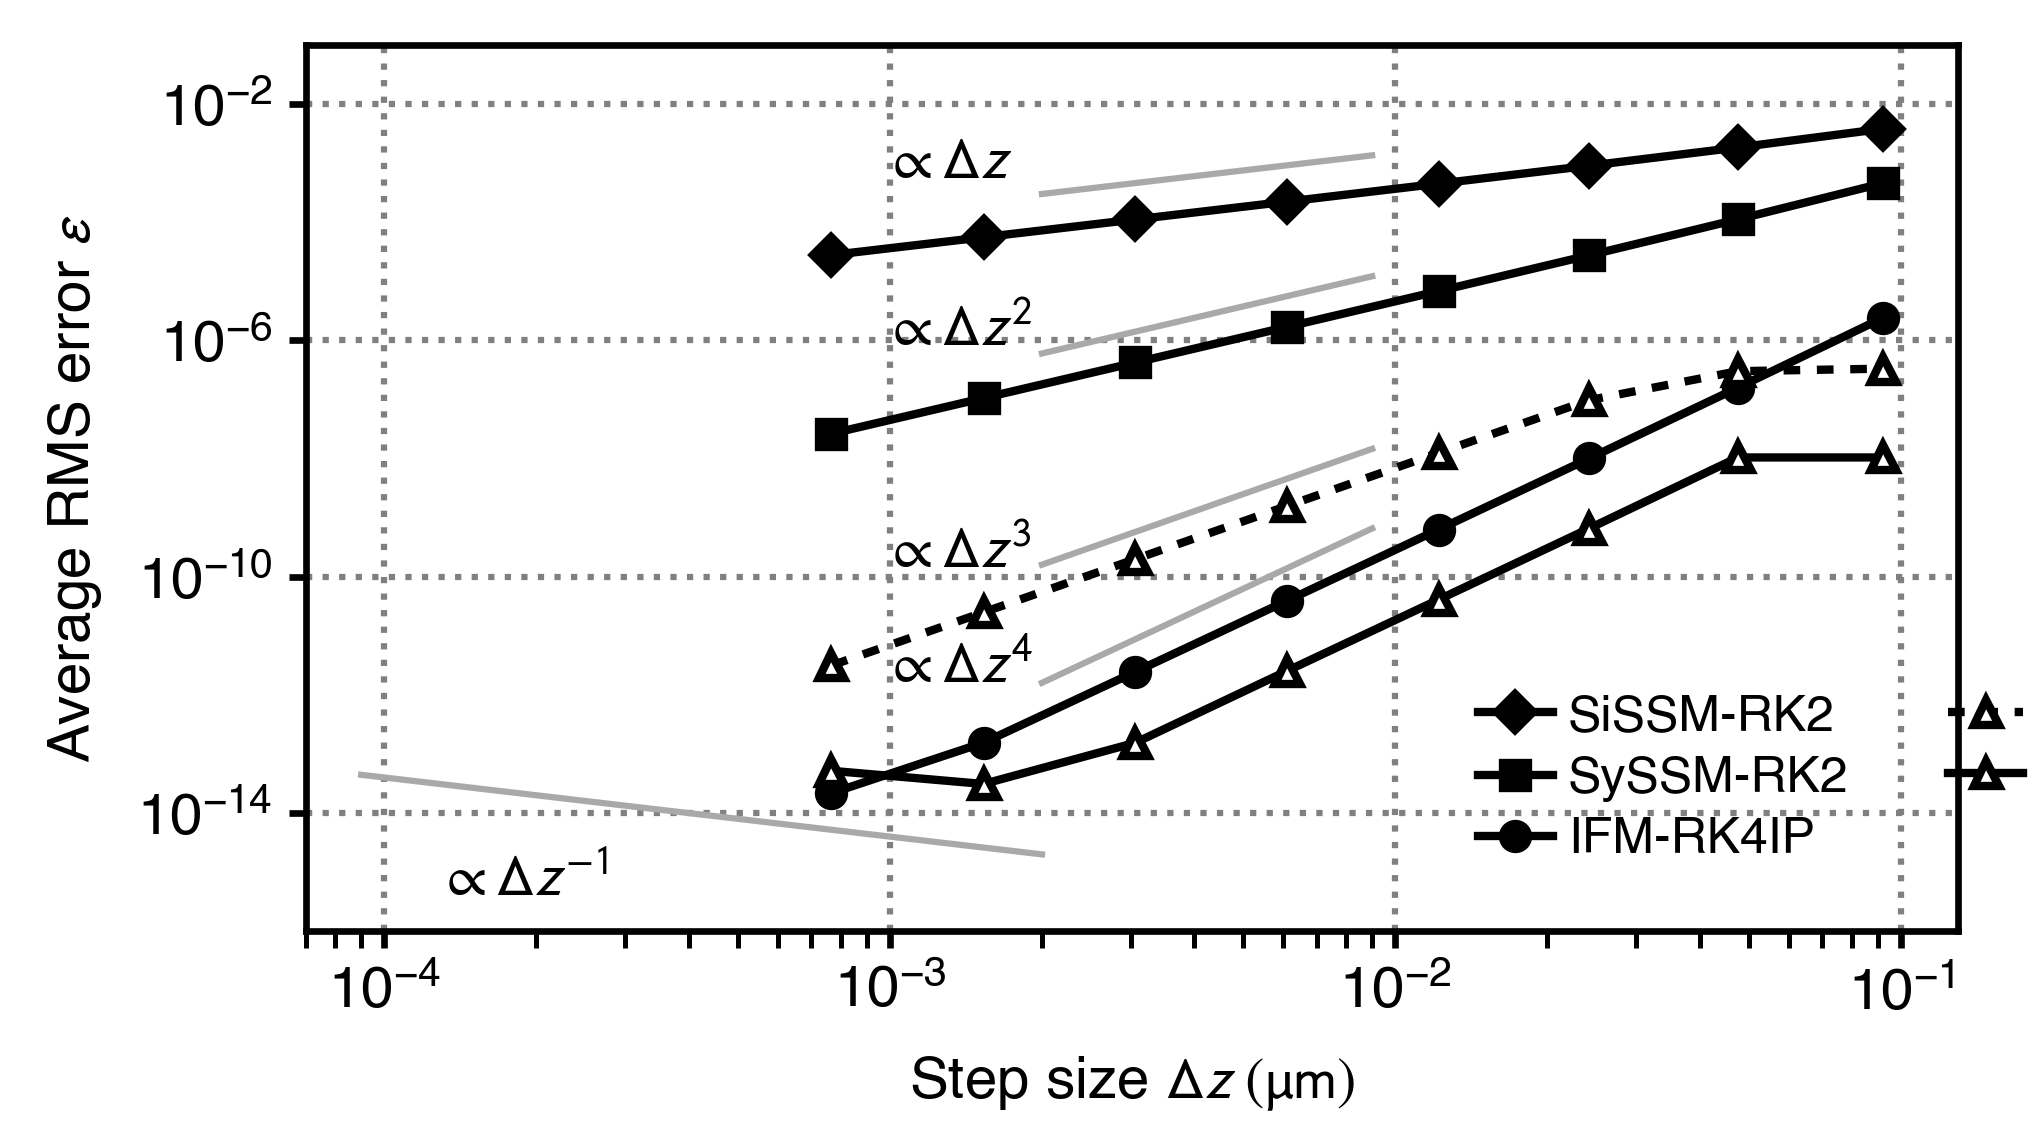
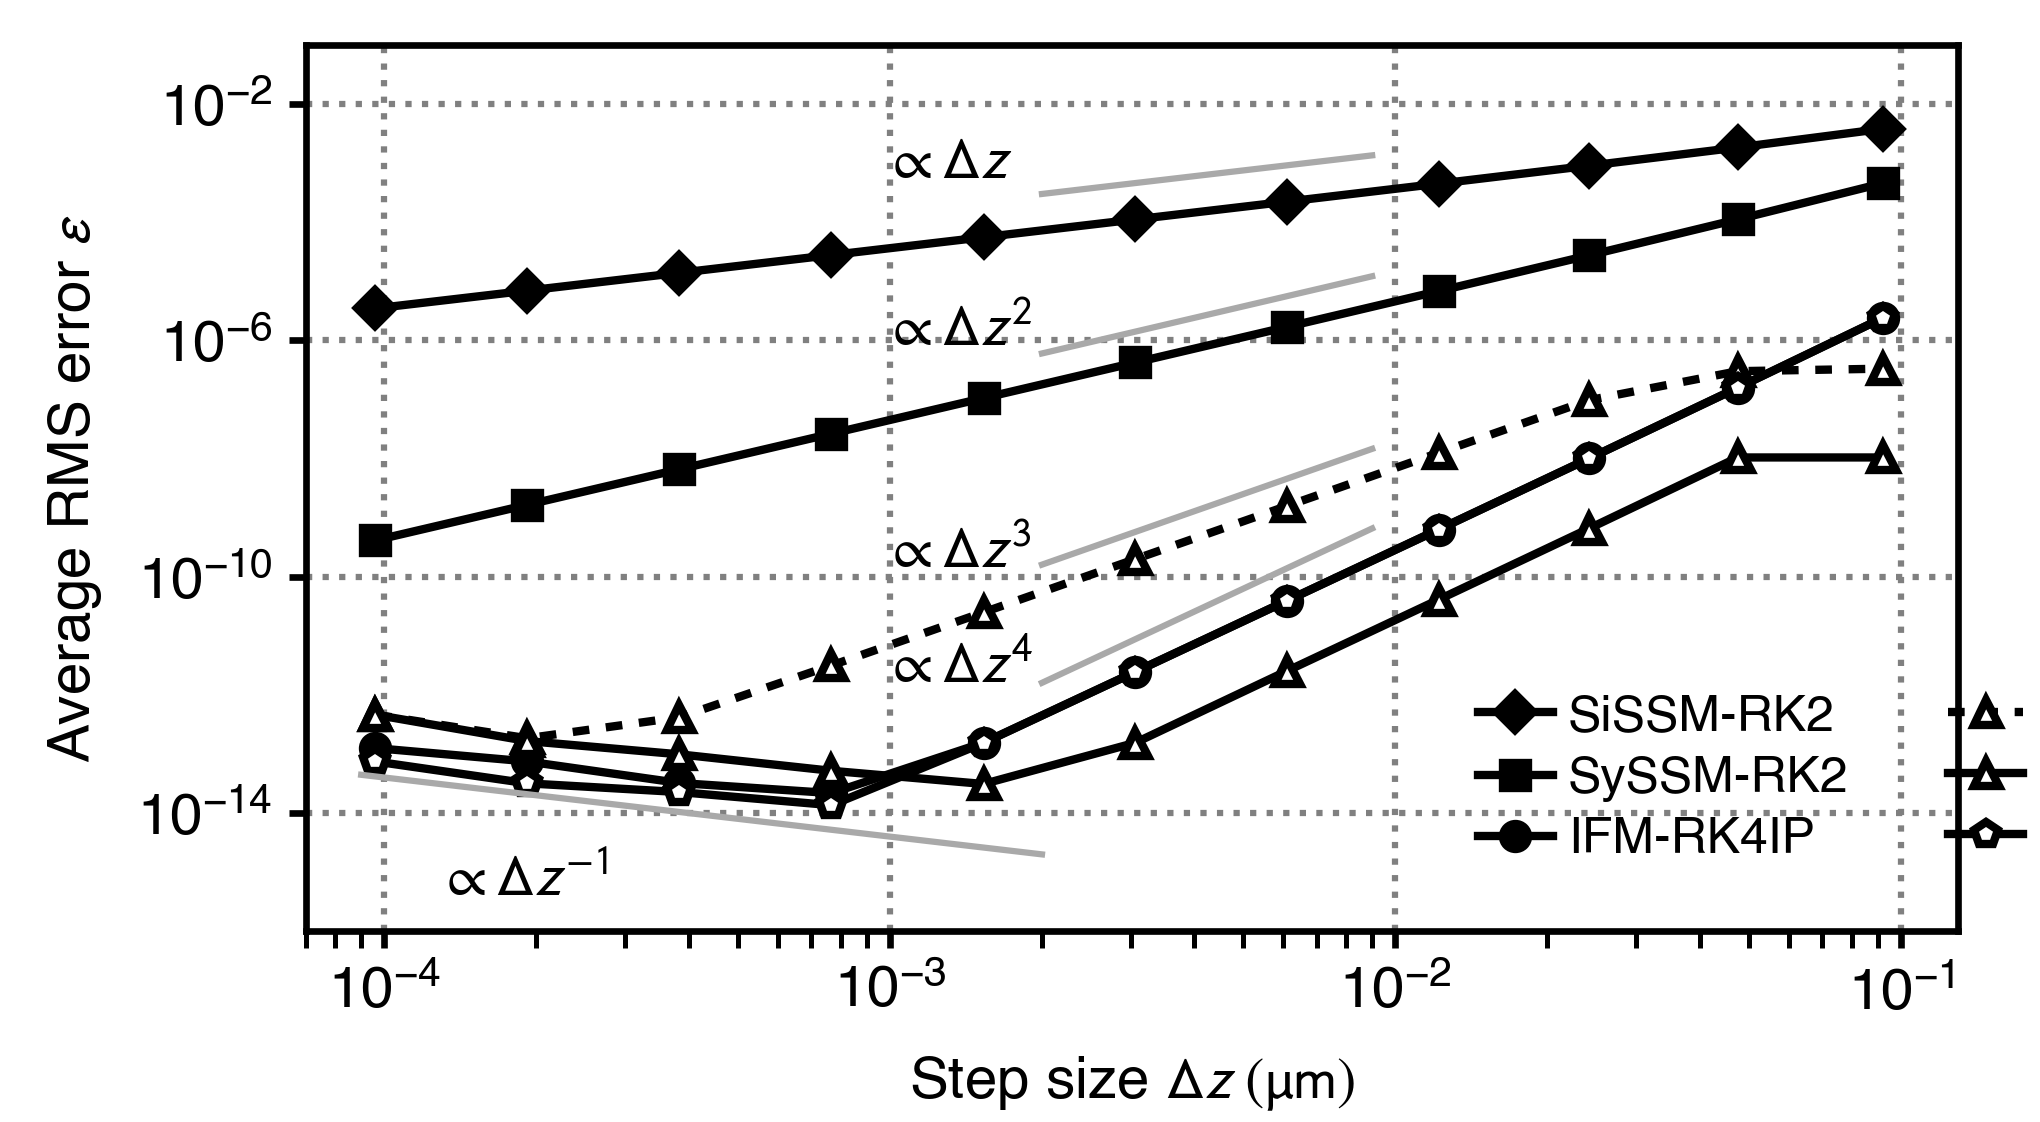
updated usage example 01

diff --git a/examples_article/usage_example_04/pp_figure/main_figure_use_case_04.py b/examples_article/usage_example_04/pp_figure/main_figure_use_case_04.py
@@ -1,0 +1,245 @@
+"""
+Author: O. Melchert
+Date: 2020-09-09
+"""
+import sys
+import os
+import numpy as np
+import numpy.fft as nfft
+import matplotlib as mpl
+import matplotlib.pyplot as plt
+from matplotlib.gridspec import GridSpec, GridSpecFromSubplotSpec
+import h5py
+
+__author__ = 'Oliver Melchert'
+__date__ = '2020-09-09'
+
+
+# -- CONVENIENT ABBREVIATIONS
+FT = nfft.ifft
+IFT = nfft.fft
+
+
+class Figure():
+
+    def __init__(self, aspect_ratio = 1.0, fig_format = 'png', fig_basename = 'fig_test'):
+        self.fig_format = fig_format
+        self.fig_basename = fig_basename
+        self.fig = None
+        self.set_style(aspect_ratio)
+
+    def set_style(self, aspect_ratio = 1.0):
+
+        fig_width = 3.4 # (inch)
+        fig_height = aspect_ratio*fig_width
+
+        params = {
+            'figure.figsize': (fig_width,fig_height),
+            'legend.fontsize': 6,
+            'legend.frameon': False,
+            'axes.labelsize': 7,
+            'axes.linewidth': 1.,
+            'axes.linewidth': 0.8,
+            'xtick.labelsize' :7,
+            'ytick.labelsize': 7,
+            'mathtext.fontset': 'stixsans',
+            'mathtext.rm': 'serif',
+            'mathtext.bf': 'serif:bold',
+            'mathtext.it': 'serif:italic',
+            'mathtext.sf': 'sans\\-serif',
+            'font.size':  7,
+            'font.family': 'serif',
+            'font.serif': "Helvetica",
+        }
+        mpl.rcParams.update(params)
+
+
+    def save(self):
+        fig_format, fig_name = self.fig_format, self.fig_basename
+        if fig_format == 'png':
+            plt.savefig(fig_name+'.png', format='png', dpi=600)
+        elif fig_format == 'pdf':
+            plt.savefig(fig_name+'.pdf', format='pdf', dpi=600)
+        elif fig_format == 'svg':
+            plt.savefig(fig_name+'.svg', format='svg', dpi=600)
+        else:
+            plt.show()
+
+
+    def set_subfig_label(self,ax, label, loc=1):
+            pos = ax.get_position()
+
+            if loc==1:
+                self.fig.text(pos.x0, pos.y1, label ,color='white',
+                    backgroundcolor='k', bbox=dict(facecolor='k', edgecolor='none',
+                    boxstyle='square,pad=0.1'), verticalalignment='top' )
+
+            elif loc==2:
+                self.fig.text(pos.x0, pos.y0, label ,color='white',
+                    backgroundcolor='k', bbox=dict(facecolor='k', edgecolor='none',
+                    boxstyle='square,pad=0.1'), verticalalignment='bottom' )
+
+            else:
+                print("check label position")
+                exit()
+
+
+    def set_layout(self):
+
+        fig = plt.figure()
+        self.fig = fig
+
+        plt.subplots_adjust(left = 0.12,    # pos. of subplots left border
+                            bottom = 0.15,   # pos. of subplots bottom border 
+                            right = 0.88,   # pos. of subplots right border
+                            top = 0.9,     # pos. of subplots top border
+                            wspace = .6,    # horizontal space between supblots
+                            hspace = 0.6    # vertical space between subplots
+                            )
+
+        gs00 = GridSpec(nrows = 1, ncols = 1)
+
+        gsA = GridSpecFromSubplotSpec(2, 3, subplot_spec=gs00[0,0], wspace=0.1, hspace=0.1)
+        axA1 = fig.add_subplot(gsA[:, 0])
+        axA2 = fig.add_subplot(gsA[0, 1:])
+        axA3 = fig.add_subplot(gsA[1, 1:])
+        self.subfig_1 = [axA1]
+        self.subfig_2 = [axA2, axA3]
+
+
+    def set_subfig_1(self):
+        axA1 = self.subfig_1[0]
+        fig = self.fig
+
+        # CONVENIENT FUNCTIONS ##################################################################
+
+        def _set_colorbar(fig, img, ax, label='text', dw=0.):
+            # -- extract position information for colorbar placement
+            refPos = ax.get_position()
+            x0, y0, w, h = refPos.x0, refPos.y0, refPos.width, refPos.height
+            # -- set new axes as reference for colorbar
+            colorbar_axis = fig.add_axes([x0 + dw, y0 + 1.02*h, w-dw, 0.03*h])
+            # -- set custom colorbar
+            colorbar = fig.colorbar(img,        # image described by colorbar
+                    cax = colorbar_axis,        # reference axex
+                    orientation = 'horizontal', # colorbar orientation
+                    extend = 'both'             # ends with out-of range values
+                    )
+            colorbar.ax.tick_params(
+                    color = 'k',                # tick color 
+                    labelcolor = 'k',           # label color
+                    bottom = False,             # no ticks at bottom
+                    labelbottom = False,        # no labels at bottom
+                    labeltop = True,            # labels on top
+                    top = True,                 # ticks on top
+                    direction = 'out',          # place ticks outside
+                    length = 2,                 # tick length in pts. 
+                    labelsize = 5.,             # tick font in pts.
+                    pad = 1.                    # tick-to-label distance in pts.
+                    )
+            fig.text(x0, y0+h+0.02*h, label, horizontalalignment='left', verticalalignment='bottom', size=6)
+            return colorbar
+
+        _norm = lambda x: x/x[0].max()
+        _truncate = lambda x: np.where(x>1.e-20,x,1.e-20)
+        _dB = lambda x: np.where(x>1e-20,10.*np.log10(x),10*np.log10(1e-20))
+
+        # -- CREATE CUSTOM COLORMAP
+        my_cmap = mpl.cm.get_cmap('jet')
+
+        # -- data -------------------------------------------------------------------------------
+        z, t, w, utz = self.z, self.t, self.w, self.utz
+
+        # -- time domain
+        Itz = _norm(np.abs(utz)**2)
+        img = axA1.pcolorfast(t, z, _dB(Itz[:-1,:-1]),
+                              vmin=-40., vmax=1,
+                              cmap = my_cmap
+                              )
+        cb = _set_colorbar(fig, img, axA1, label='$|A|^2~\mathrm{(dB)}$', dw=0.1)
+        cb.set_ticks((-40,-20,0))
+
+        axA1.tick_params(axis='x', length=2., pad=2, top=False)
+        x_lim = (-30.,30.)
+        x_ticks = (-20.,0,20.)
+        axA1.set_xlim(x_lim)
+        axA1.set_xticks(x_ticks)
+        axA1.set_xlabel(r"Time $t~\mathrm{(fs)}$")
+
+        axA1.tick_params(axis='y', length=2., pad=2, top=False)
+        z_lim = (0., z.max())
+        z_ticks = (0,0.5,1.,1.5)
+        axA1.set_ylim(z_lim)
+        axA1.set_yticks(z_ticks)
+        axA1.set_ylabel(r"Propagation distance $z~\mathrm{(\mu m)}$")
+
+        self.set_subfig_label(axA1,'(a)')
+
+
+    def set_subfig_2(self):
+        axA2, axA3 = self.subfig_2
+
+        z, dz_a, del_rle = self.z, self.dz_a, self.del_rle
+
+        iters = np.arange(dz_a.size)
+        axA2.plot(iters, dz_a*1e3, color='k', lw=0.75)
+
+        axA2.tick_params(axis='x', length=2., pad=2, top=False, labelbottom=False)
+        x_lim = (0,512)
+        x_ticks = (0,128,256,384,512)
+        axA2.set_xlim(x_lim)
+        axA2.set_xticks(x_ticks)
+        axA2.set_ylabel(r"$h~{(\mathrm{ns})}$")
+        axA2.yaxis.set_label_position('right')
+
+        axA2.tick_params(axis='y', length=2., pad=2, top=False, labelleft=False, right=True, labelright=True, left=False)
+        y_lim = (0,8.5)
+        y_ticks = (0,2,4,6,8)
+        axA2.set_ylim(y_lim)
+        axA2.set_yticks(y_ticks)
+
+        axA3.plot(iters, del_rle*1e7, color='k', lw=0.75)
+        axA3.axhspan(0.5,1,color='lightgray')
+
+        axA3.tick_params(axis='x', length=2., pad=2, top=False)
+        y_lim = (0,1.7)
+        y_ticks = (0,0.5,1,1.5)
+        axA3.set_xlim(x_lim)
+        axA3.set_xticks(x_ticks)
+
+        axA3.tick_params(axis='y', length=2., pad=2, top=False, labelleft=False, right=True, labelright=True, left=False)
+        axA3.set_ylim(y_lim)
+        axA3.set_yticks(y_ticks)
+        axA3.set_ylabel(r"$\delta_{\rm{RLE}}~(\times 10^{-7})$")
+        axA3.yaxis.set_label_position('right')
+        axA3.set_xlabel(r"Slice number $n$")
+
+        self.set_subfig_label(axA2,'(b)')
+        self.set_subfig_label(axA3,'(c)')
+
+
+
+    def fetch_data(self, file_path):
+
+        with h5py.File(file_path, "r") as f:
+            self.utz = np.array(f['u'])
+            self.t = np.array(f['t'])
+            self.w = np.array(f['w'])
+            self.z = np.array(f['z'])
+            self.dz_int = np.array(f['dz_integration'])
+            self.dz_a = np.array(f['dz_a'])
+            self.del_rle = np.array(f['del_rle'])
+
+
+def main():
+
+    myFig = Figure(aspect_ratio=0.66, fig_basename='fig_LEM_SolSolCollision', fig_format='png')
+    myFig.set_layout()
+    myFig.fetch_data('../res_LEM_SolSolCollision.h5')
+    myFig.set_subfig_1()
+    myFig.set_subfig_2()
+    myFig.save()
+
+
+if __name__ == '__main__':
+    main()

diff --git a/examples_article/usage_example_04/main_usage_example_04.py b/examples_article/usage_example_04/main_usage_example_04.py
@@ -1,0 +1,81 @@
+import sys
+import numpy as np
+from fmas.models import ModelBaseClass
+from fmas.config import FTFREQ, FT, IFT, C0
+from fmas.grid import Grid
+from fmas.solver import LEM
+from fmas.data_io import save_h5
+
+class NSE(ModelBaseClass):
+
+    def __init__(self, w, beta, gamma):
+        super().__init__(w, beta_w=beta)
+        self.gamma = gamma
+
+    @property
+    def Lw(self):
+        return 1j*self.beta_w
+
+    def N(self, uw):
+        ut = IFT(uw)
+        return 1j*self.gamma*FT(np.abs(ut)**2*ut)
+
+
+def main():
+
+    # -- SET MODEL PARAMETERS
+    t_max = -50.
+    Nt = 2**12
+    # ... PROPAGATION CONSTANT (POLYNOMIAL MODEL)
+    beta = np.poly1d([-0.5, 0.0, 0.0])
+    beta1 = np.polyder(beta, m=1)
+    beta2 = np.polyder(beta, m=2)
+    # ... NONLINEAR PARAMETER 
+    gamma = 1.
+    # ... SOLITON PARAMTERS
+    t0 = 1.                             # duration
+    t_off = 20.                         # temporal offset
+    w0 = 25.                            # detuning
+    P0 = np.abs(beta2(0))/t0/t0/gamma   # peak-intensity
+    LD = t0*t0/np.abs(beta2(0))         # dispersion length
+    # ... EXACT SOLUTION
+    u_exact = lambda z, t: np.sqrt(P0)*np.exp(0.5j*gamma*P0*z)/np.cosh(t/t0)
+
+
+    # -- INITIALIZATION STAGE
+    # ... COMPUTATIONAL DOMAIN
+    grid = Grid(t_max=t_max, t_num=Nt)
+    t, w = grid.t, grid.w
+    # ... NONLINEAR SCHROEDINGER EQUATION 
+    model = NSE(w, beta(w), gamma)
+    # ... PROPAGATION ALGORITHM
+    solver = LEM(model.Lw, model.N, del_G = 1e-7)
+    # ... INITIAL CONDITION
+    u0_t  = u_exact(0.0, t+t_off)*np.exp(1j*w0*t)
+    u0_t += u_exact(0.0, t-t_off)*np.exp(-1j*w0*t)
+    solver.set_initial_condition(w, FT(u0_t))
+
+    # -- RUN SOLVER 
+    solver.propagate(
+        z_range = 0.5*np.pi*LD,     # propagation range
+        n_steps = 2**9,
+        n_skip = 2
+    )
+
+    # -- STORE RESULTS
+    # ... PREPARE DATA DICTIONARY FOR OUTPUT FILE
+    results = {
+        't': t,
+        'z': solver.z,
+        'w': solver.w,
+        'u': solver.utz,
+        'dz_integration': solver.dz_,
+        'dz_a': np.asarray(solver._dz_a),
+        'del_rle' : np.asarray(solver._del_rle)
+    }
+    # ... STORE DATA
+    save_h5( './res_LEM_SolSolCollision.h5', **results)
+
+
+if __name__=='__main__':
+    main()

diff --git a/examples_article/usage_example_01/pp_fig_01_v2/main_figure_usage_example_01.py b/examples_article/usage_example_01/pp_fig_01_v2/main_figure_usage_example_01.py
@@ -173,7 +173,15 @@ def figure(fig_basename):
     err = dat[:,1]
     l7 = axA1.plot(dz, err, color=col1, marker='^', markersize=3., markerfacecolor=col12, linewidth=1., mew= 1., label=r'LEM-RK4')
 
-    set_legend(axA1, l4+l2+l3+l6+l7, loc=(0.7,0.06), ncol=2)
+
+    f_name = '../res_CQE.dat'
+    dat = np.loadtxt(f_name)
+    dz = dat[:,0]
+    err = dat[:,1]
+    col1 = 'gray'
+    l8 = axA1.plot(dz, err, color=col1, marker='p', markersize=2., markerfacecolor=col12, linewidth=0.75, mew= 0.75, label=r'CQE')
+
+    set_legend(axA1, l4+l2+l3+l6+l7+l8, loc=(0.7,0.06), ncol=2)
     #lg1 = set_legend(axA1, l4+l5, loc=(0.4,0.06), ncol=1)
     #lg2 = set_legend(axA1, l1+l2+l3, loc=(0.7,0.06), ncol=1)
     #plt.gca().add_artist(lg1)
@@ -215,7 +223,7 @@ def figure(fig_basename):
     axA1.set_ylabel(r"Average RMS error $\epsilon$")
     #axA1.set_ylabel(r"Global error $\epsilon$")
 
-    save_figure(fig_name = fig_basename, fig_format = 'png')
+    save_figure(fig_name = fig_basename, fig_format = 'svg')
 
 
 

diff --git a/examples_article/usage_example_01/main_usage_example_01.py b/examples_article/usage_example_01/main_usage_example_01.py
@@ -3,7 +3,7 @@ import numpy as np
 import numpy.fft as nfft
 from fmas.models import ModelBaseClass
 from fmas.config import FTFREQ, FT, IFT, C0
-from fmas.solver import SiSSM, SySSM, IFM_RK4IP, LEM_SySSM, LEM_IFM
+from fmas.solver import SiSSM, SySSM, IFM_RK4IP, LEM_SySSM, LEM_IFM, CQE
 from fmas.stepper import RungeKutta2, RungeKutta4
 
 
@@ -62,6 +62,7 @@ def determine_error(mode, stepper):
         'SySSM': SySSM(model.Lw, model.Nw, my_stepper),
         'IFM': IFM_RK4IP(model.Lw, model.Nw),
         'LEM': LEM_SySSM(model.Lw, model.Nw, my_stepper),
+        'CQE': CQE(model.Lw, model.Nw, del_G=1e-6),
         'MLEM': LEM_IFM(model.Lw, model.Nw)
     }
     try:

diff --git a/examples_article/usage_example_01/README.rst b/examples_article/usage_example_01/README.rst
@@ -1,0 +1,7 @@
+Exact single soltion solution of the NSE
+========================================
+
+Mo 12 Apr 2021 10:35:57 CEST
+----------------------------
+* added perfomance test for CQE method - OM
+
